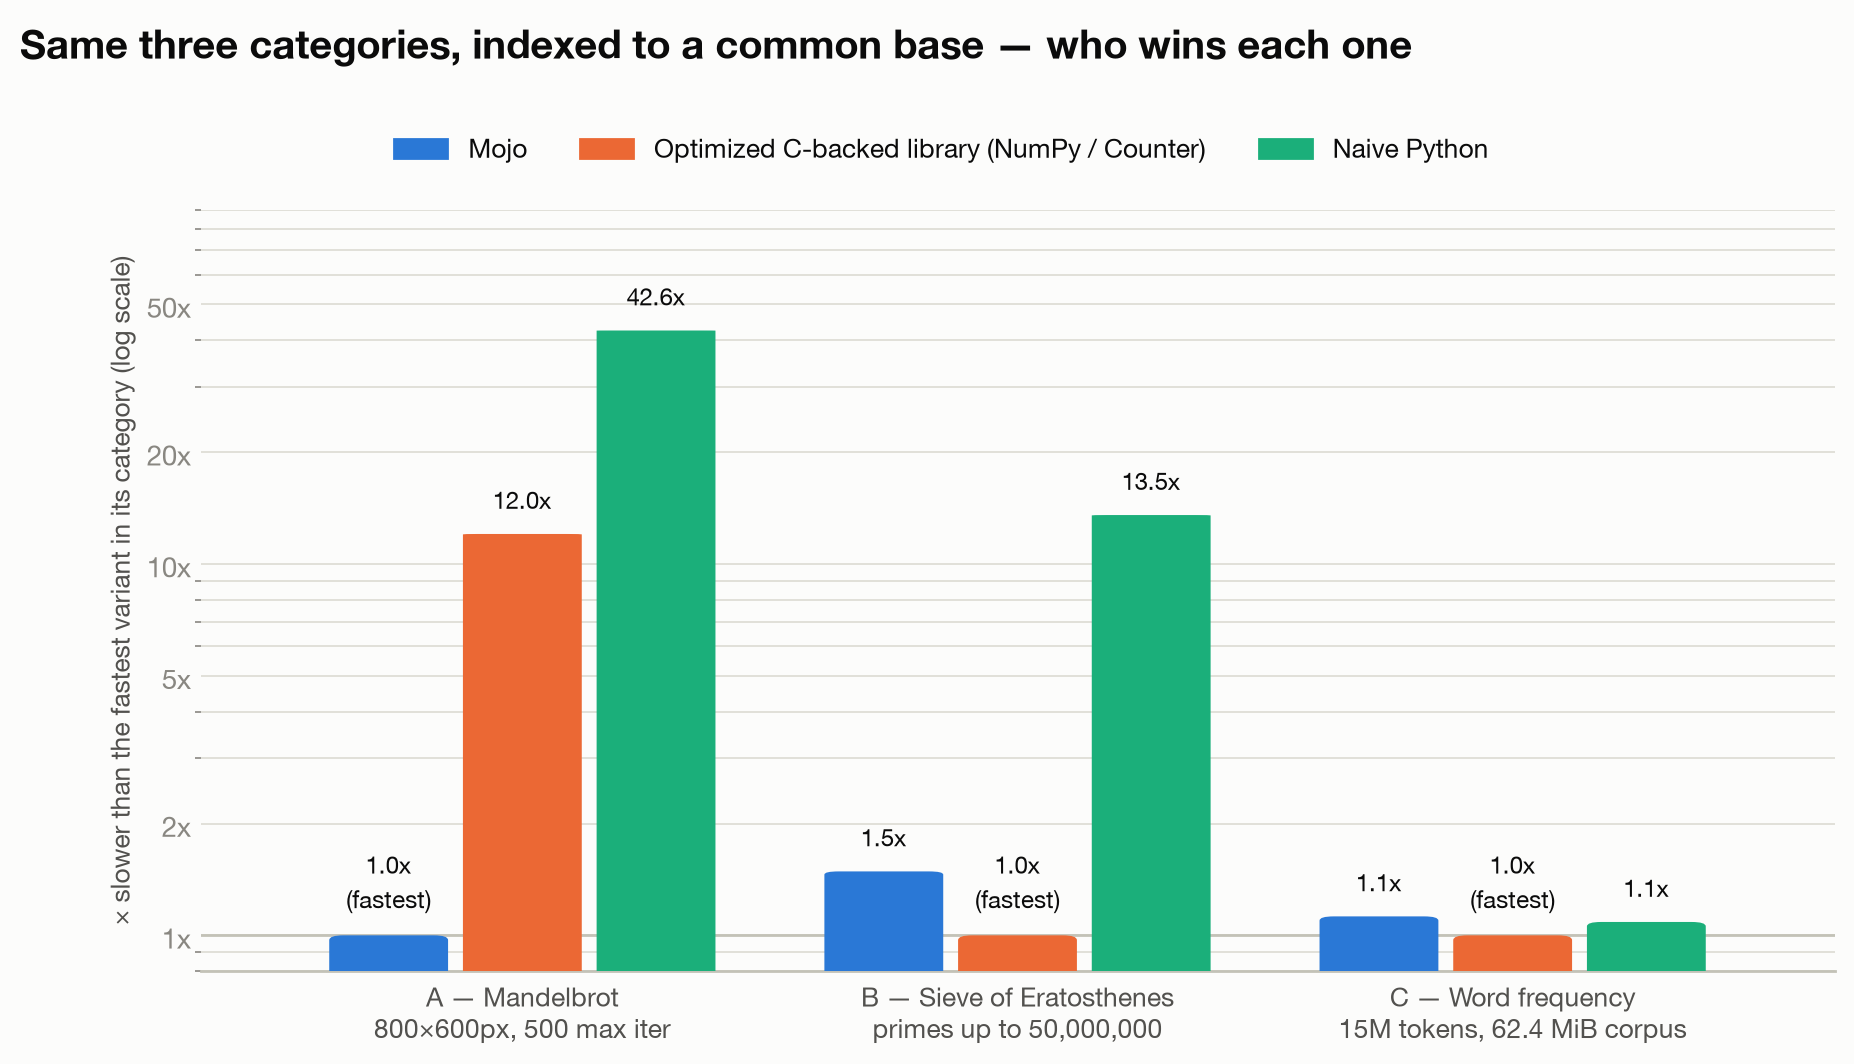
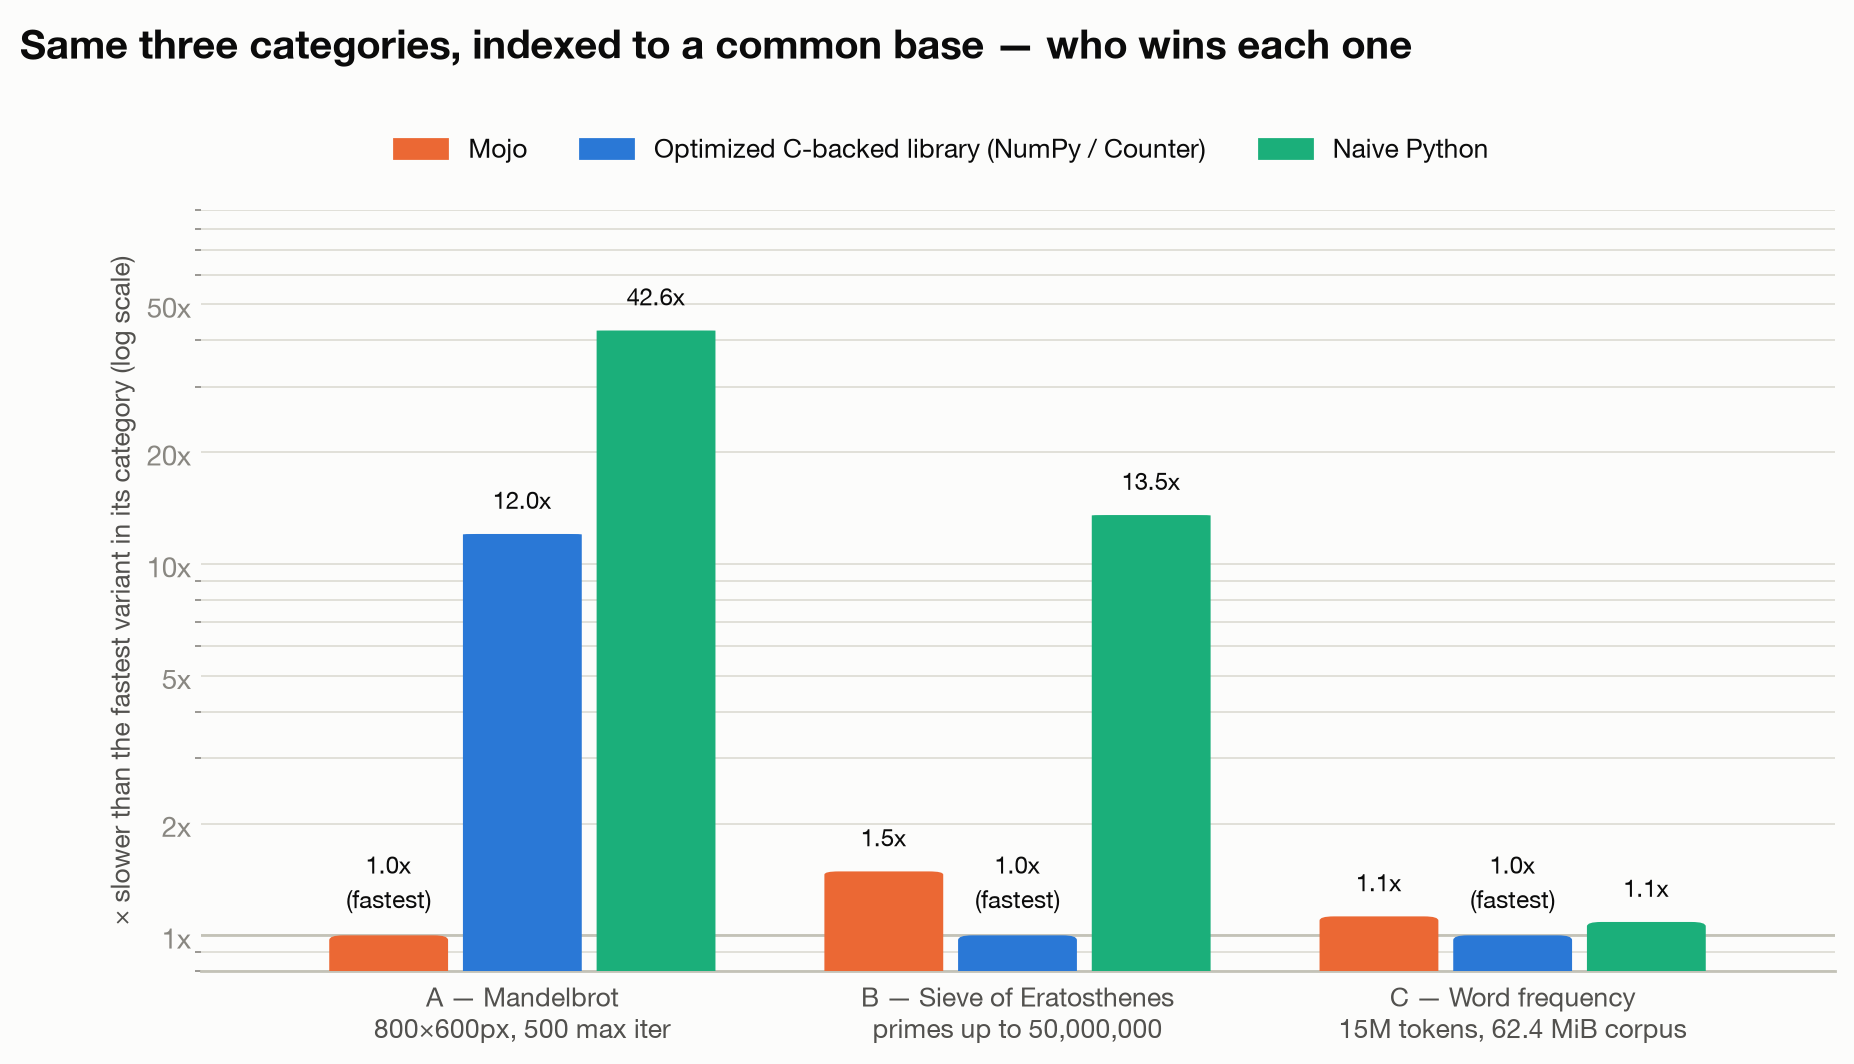
Recolor charts: Mojo orange, naive Python green, per user preference
Swapped roles within the same pre-validated 3-color triple rather than
introduce a new hue: tried pure green (#008300) alongside orange first and
it failed the CVD validator hard (protanopia dE 3.2, well under the floor
of 6 — green/orange is a classic confusion pair), so naive-Python keeps the
aqua slot, which already reads as green.

Claude-Session: https://claude.ai/code/session_01QDpFxeAGxk1rVkmDj4ry16

diff --git a/scripts/make_charts.py b/scripts/make_charts.py
@@ -1,6 +1,7 @@
 """Renders the benchmark charts embedded in ANALYSIS.md / README.md from
 results/results.json. Palette and mark specs follow the dataviz skill: fixed
-categorical hues assigned by *role* (never by rank), hairline recessive grid,
+categorical hues assigned by *role* (never by rank) — orange=Mojo,
+blue=optimized library, aqua/green=naive Python — hairline recessive grid,
 no borders on marks, direct value labels as the contrast-relief channel for
 the aqua slot (which sits under 3:1 against the light surface).
 
@@ -19,10 +20,14 @@ RESULTS = json.loads((ROOT / "results/results.json").read_text())
 OUT = ROOT / "results"
 
 # Categorical palette (dataviz skill default, slots 1-3 — validated all-pairs,
-# both CVD and normal-vision floors, for exactly 3 series).
-BLUE = "#2a78d6"    # role: Mojo (compiled, throughout)
-ORANGE = "#eb6834"  # role: optimized C-backed library alternative (NumPy / Counter)
-AQUA = "#1baf7a"    # role: naive/pure Python
+# both CVD and normal-vision floors, for exactly 3 series). Roles are assigned
+# to hold within this pre-validated triple — swapping in a "purer" green
+# (slot 6, #008300) alongside orange was tried and FAILS CVD separation hard
+# (protan ΔE 3.2, well under the floor of 6) — green/orange is a classic
+# confusion pair, so aqua stays the naive-Python green.
+MOJO = "#eb6834"      # orange — role: Mojo (compiled, throughout)
+OPT_LIB = "#2a78d6"   # blue — role: optimized C-backed library alt (NumPy / Counter)
+NAIVE_PY = "#1baf7a"  # aqua/green — role: naive/pure Python
 
 TEXT_PRIMARY = "#0b0b0b"
 TEXT_SECONDARY = "#52514e"
@@ -49,9 +54,9 @@ PANELS = [
         "title": "A — Mandelbrot",
         "subtitle": "800×600px, 500 max iter",
         "bars": [
-            ("Mojo", "mojo", BLUE),
-            ("NumPy", "numpy", ORANGE),
-            ("Python", "python", AQUA),
+            ("Mojo", "mojo", MOJO),
+            ("NumPy", "numpy", OPT_LIB),
+            ("Python", "python", NAIVE_PY),
         ],
         "ylabel": "seconds (mean of 7 trials)",
     },
@@ -60,9 +65,9 @@ PANELS = [
         "title": "B — Sieve of Eratosthenes",
         "subtitle": "primes up to 50,000,000",
         "bars": [
-            ("Mojo", "mojo", BLUE),
-            ("NumPy", "numpy", ORANGE),
-            ("Python", "python", AQUA),
+            ("Mojo", "mojo", MOJO),
+            ("NumPy", "numpy", OPT_LIB),
+            ("Python", "python", NAIVE_PY),
         ],
         "ylabel": "seconds (mean of 7 trials)",
     },
@@ -71,18 +76,18 @@ PANELS = [
         "title": "C — Word frequency",
         "subtitle": "15M tokens, 62.4 MiB corpus",
         "bars": [
-            ("Mojo", "mojo", BLUE),
-            ("Counter", "python (Counter)", ORANGE),
-            ("dict", "python (dict)", AQUA),
+            ("Mojo", "mojo", MOJO),
+            ("Counter", "python (Counter)", OPT_LIB),
+            ("dict", "python (dict)", NAIVE_PY),
         ],
         "ylabel": "seconds, incl. file read (mean of 7 trials)",
     },
 ]
 
 LEGEND_HANDLES = [
-    plt.Rectangle((0, 0), 1, 1, color=BLUE, label="Mojo"),
-    plt.Rectangle((0, 0), 1, 1, color=ORANGE, label="Optimized C-backed library (NumPy / Counter)"),
-    plt.Rectangle((0, 0), 1, 1, color=AQUA, label="Naive Python"),
+    plt.Rectangle((0, 0), 1, 1, color=MOJO, label="Mojo"),
+    plt.Rectangle((0, 0), 1, 1, color=OPT_LIB, label="Optimized C-backed library (NumPy / Counter)"),
+    plt.Rectangle((0, 0), 1, 1, color=NAIVE_PY, label="Naive Python"),
 ]
 
 

diff --git a/ANALYSIS.md b/ANALYSIS.md
@@ -97,9 +97,9 @@ Read this before citing a number from this doc elsewhere:
 ![Mojo vs. Python vs. NumPy — mean wall-clock time, lower is better, three panels one per category](results/chart_absolute.png)
 
 Error bars are ±1 stdev across the 7 measured trials. Bar color is by *role*
-across all charts in this doc, not by language name: blue is always Mojo,
-orange is always the optimized C-backed library alternative (NumPy for A/B,
-`Counter` for C), aqua is always the naive/pure-Python implementation.
+across all charts in this doc, not by language name: orange is always Mojo,
+blue is always the optimized C-backed library alternative (NumPy for A/B,
+`Counter` for C), aqua/green is always the naive/pure-Python implementation.
 
 ### A — Mandelbrot (SIMD-friendly)
 
